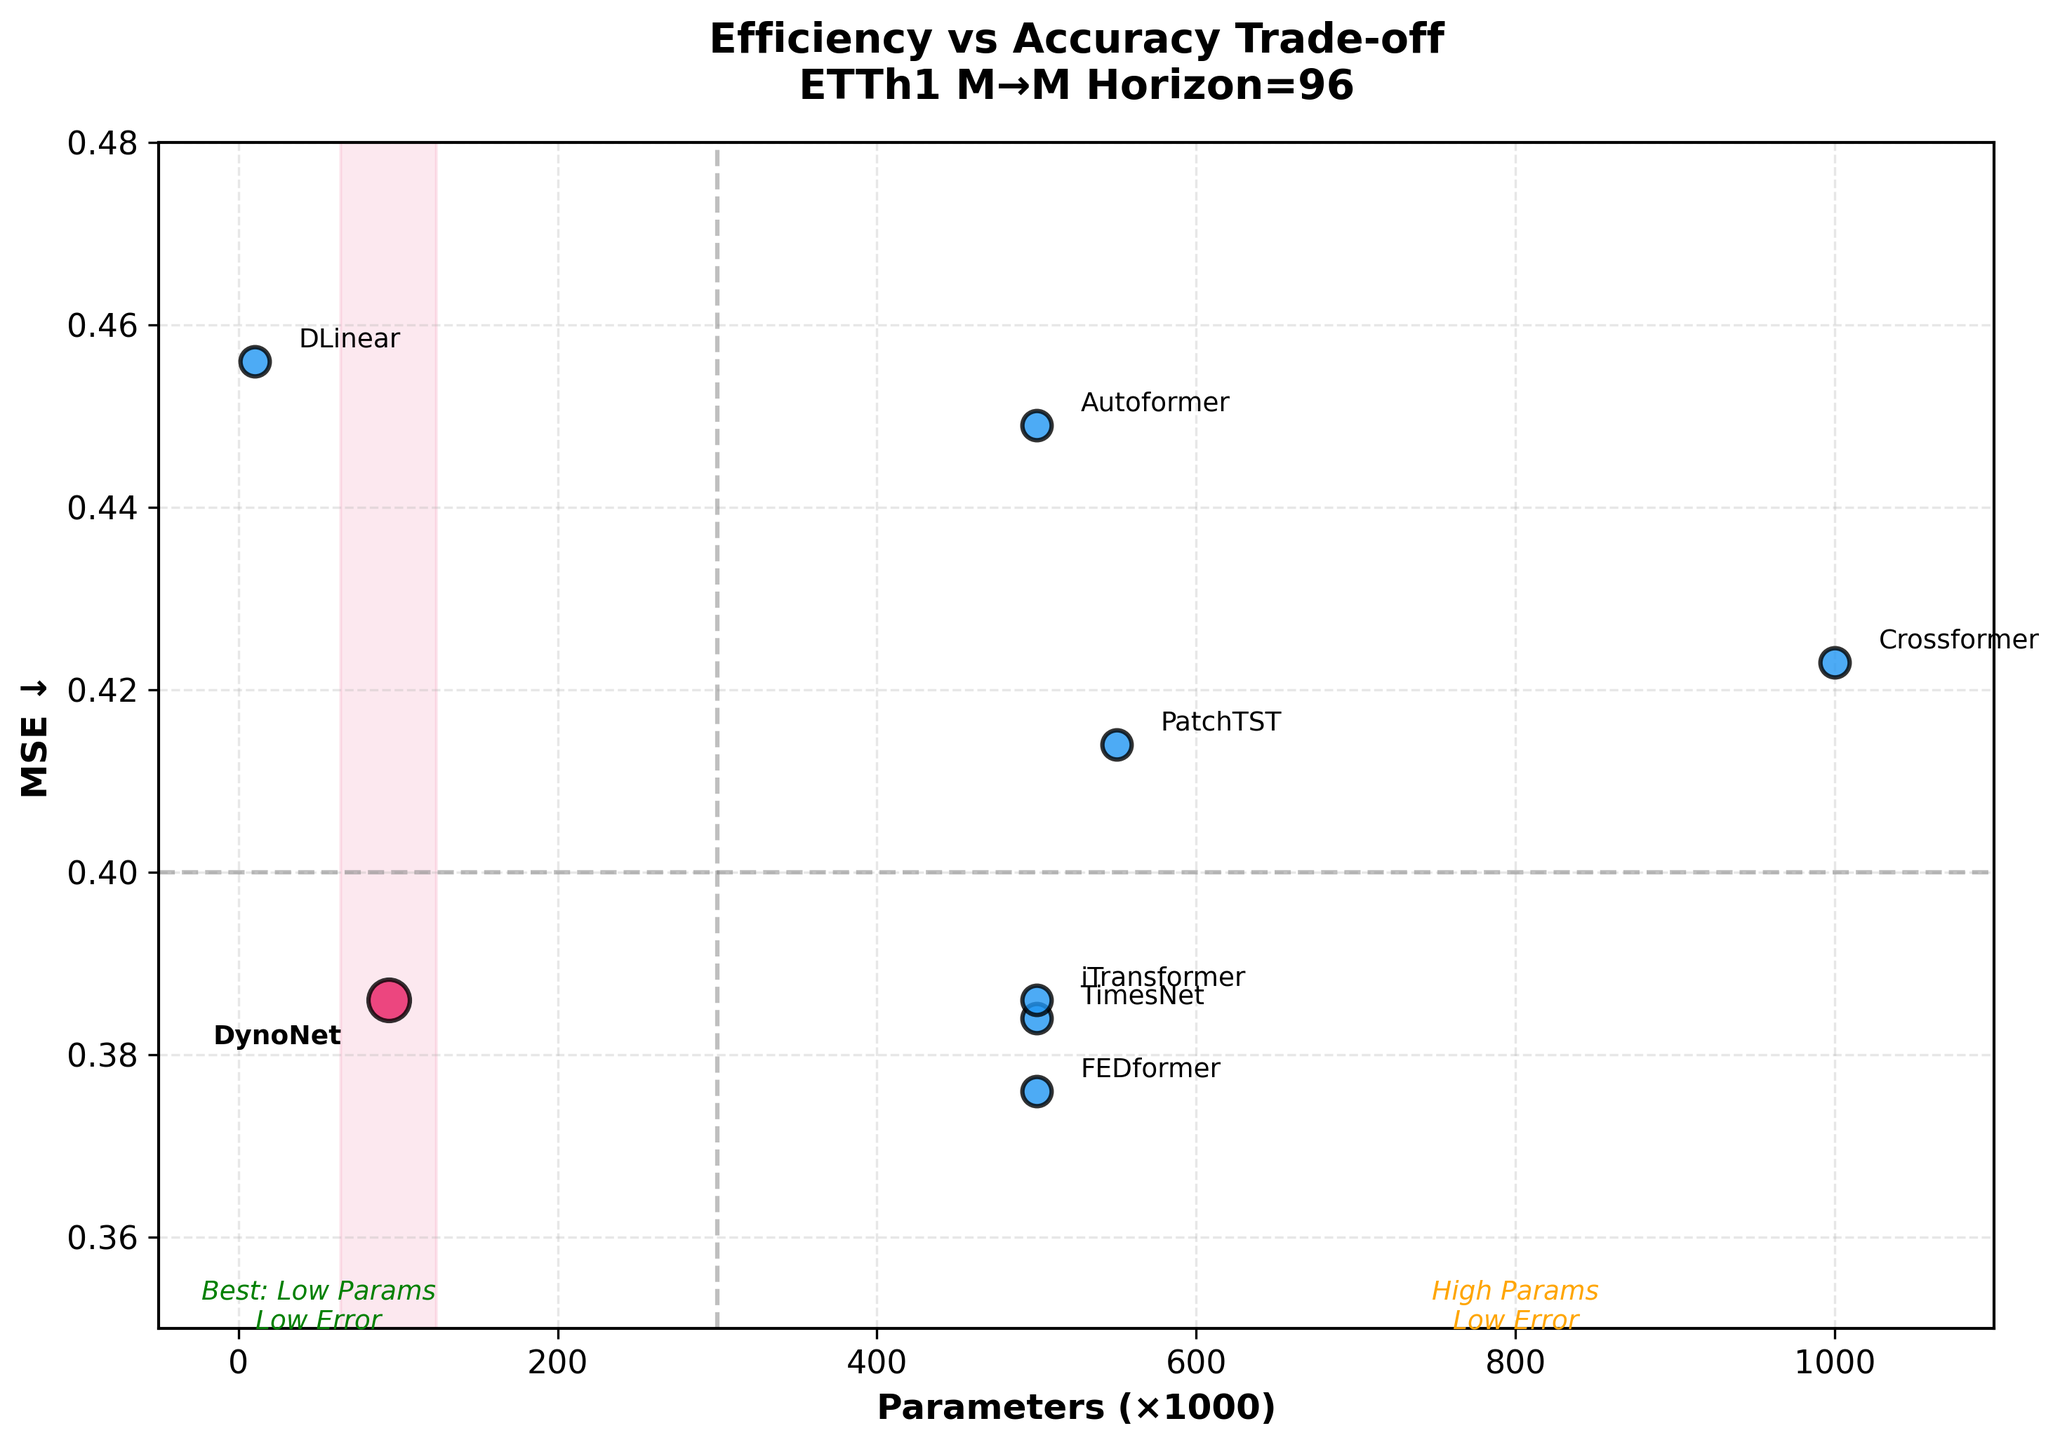
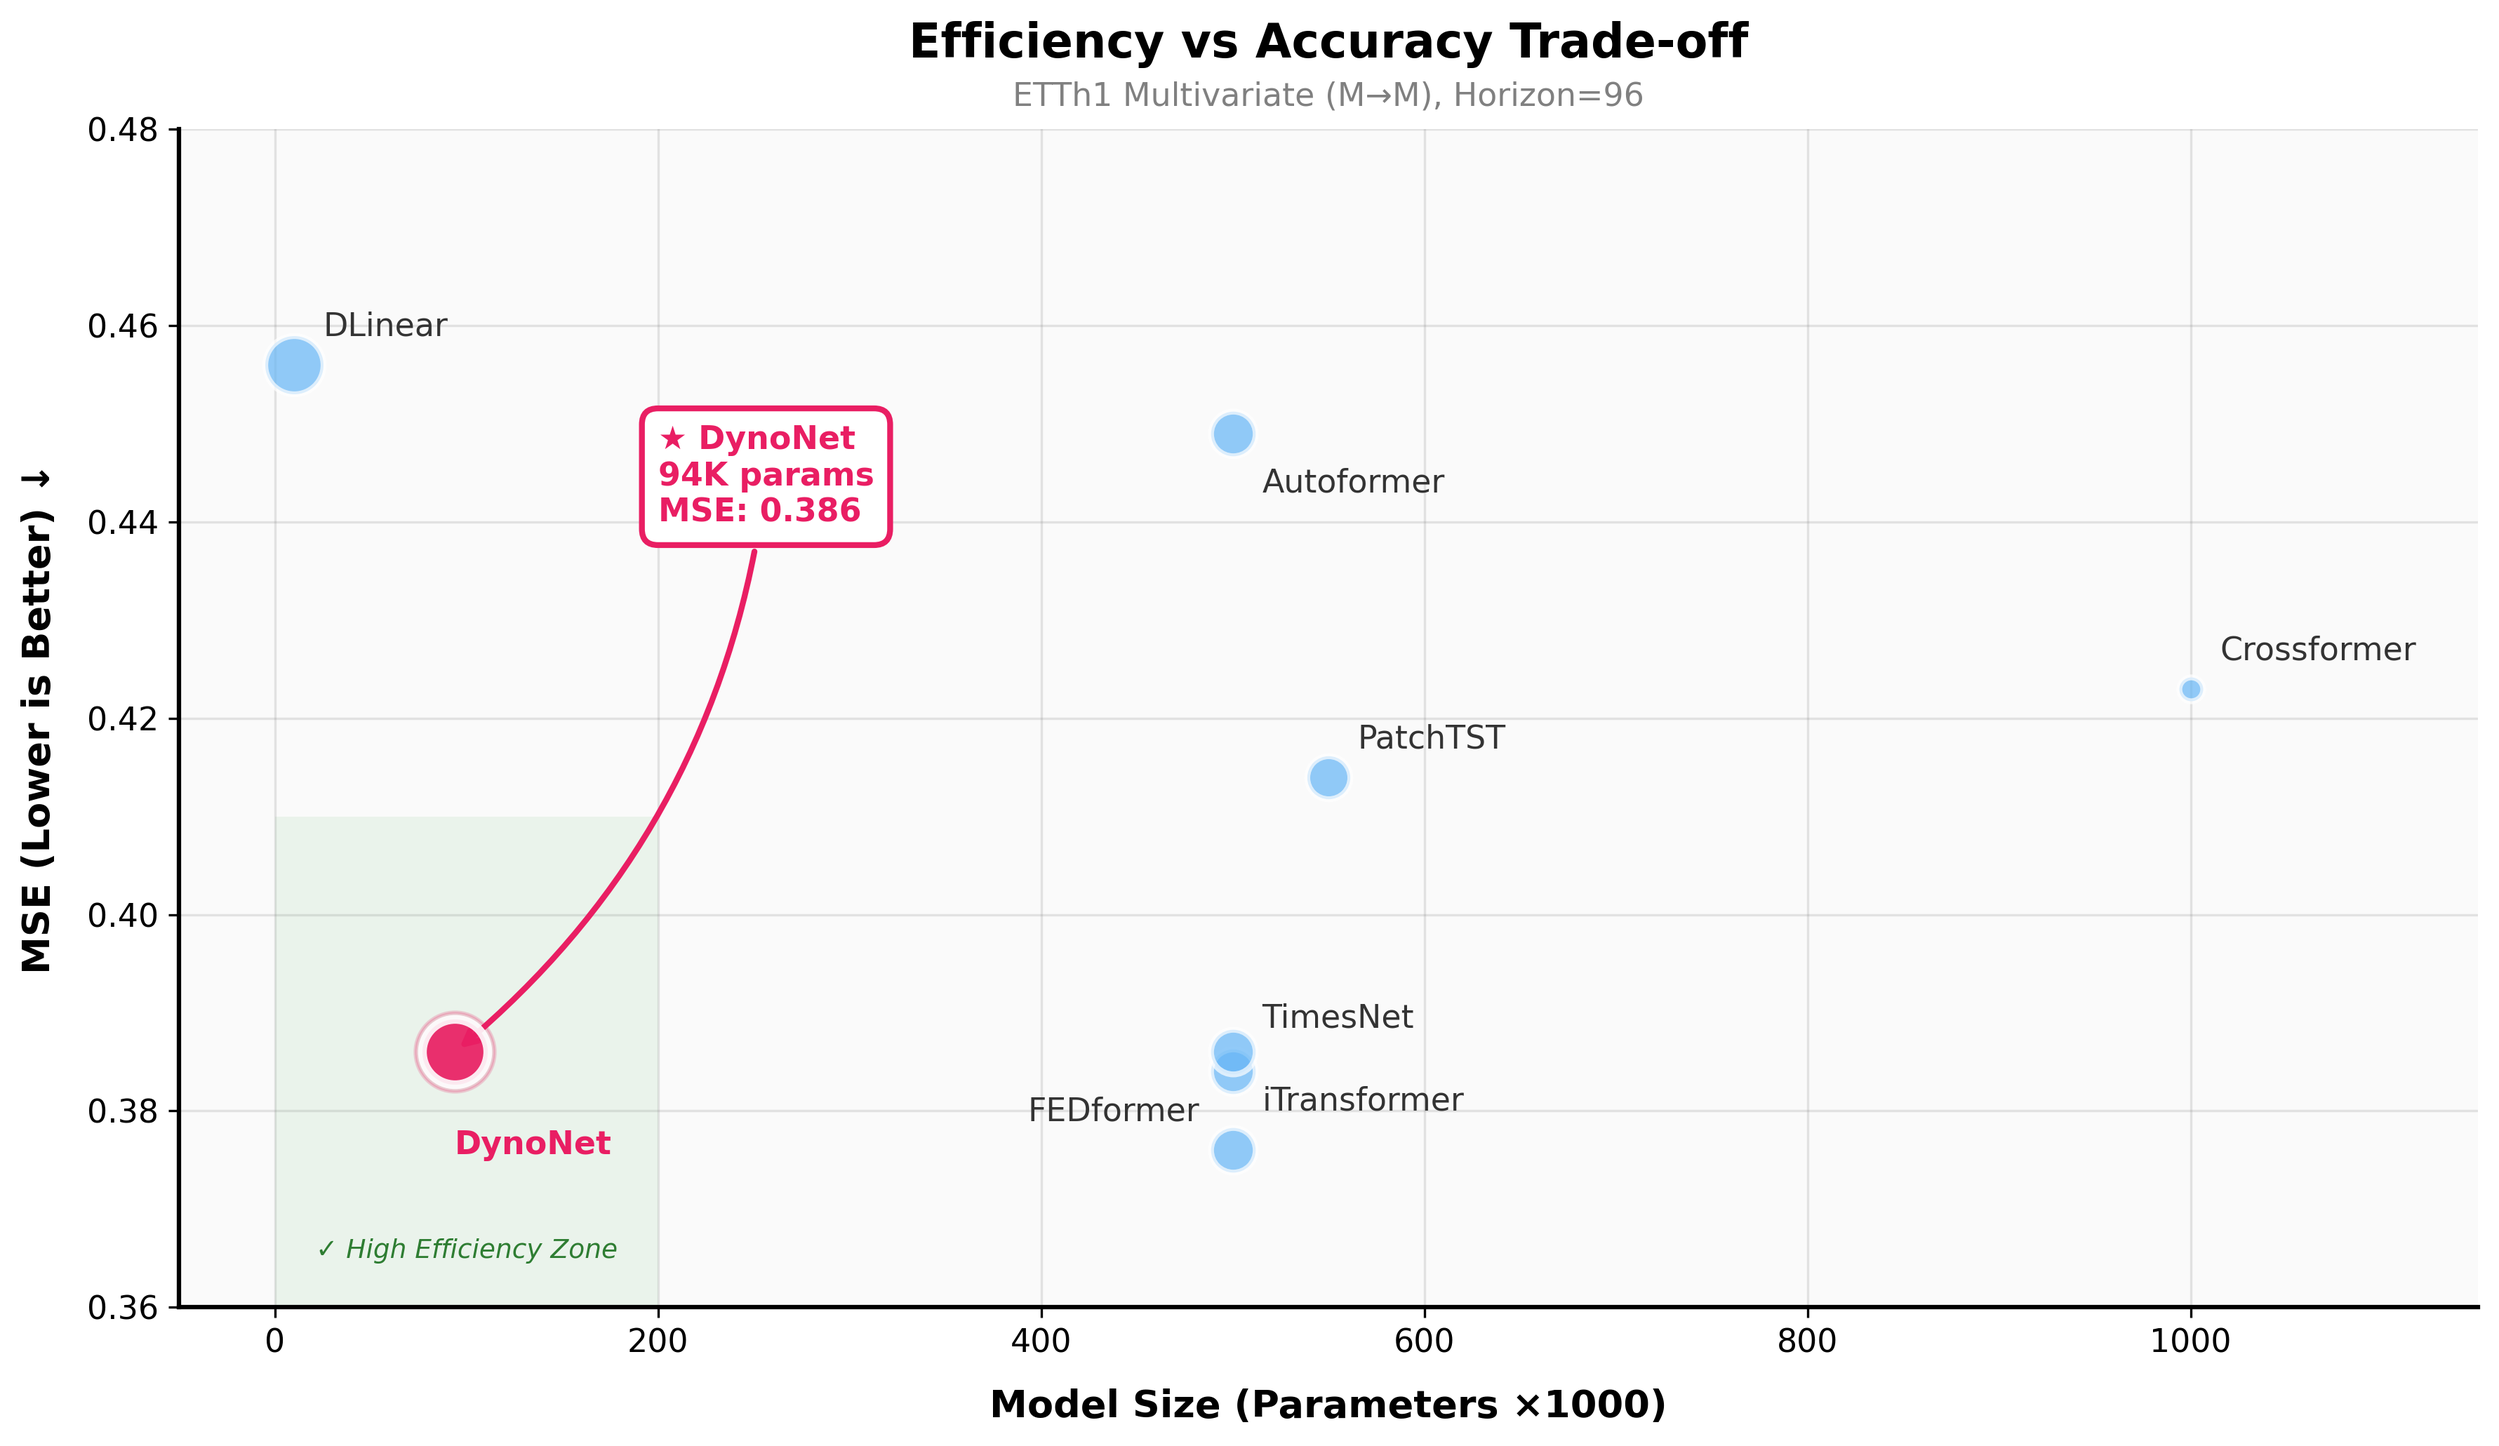
style: Redesign efficiency chart with cleaner bubble design

diff --git a/scripts/generate_benchmark_chart.py b/scripts/generate_benchmark_chart.py
@@ -104,7 +104,8 @@ def create_sota_benchmark_chart():
 
 def create_efficiency_scatter():
     """
-    Create a scatter plot showing MSE vs Parameters trade-off.
+    Create a clean bubble chart showing MSE vs Parameters trade-off.
+    Bubble size = inverse of params (smaller is better)
     """
     models = ['TimesNet', 'DynoNet', 'iTransformer', 'PatchTST', 
               'Crossformer', 'DLinear', 'Autoformer', 'FEDformer']
@@ -112,48 +113,82 @@ def create_efficiency_scatter():
     mse = [0.384, 0.386, 0.386, 0.414, 0.423, 0.456, 0.449, 0.376]
     params_k = [500, 94, 500, 550, 1000, 10, 500, 500]
     
-    fig, ax = plt.subplots(figsize=(10, 7), dpi=150)
+    fig, ax = plt.subplots(figsize=(12, 7), dpi=150)
+    fig.patch.set_facecolor('white')
+    ax.set_facecolor('#FAFAFA')
     
-    # Scatter points
-    colors = ['#2196F3'] * len(models)
-    colors[1] = '#E91E63'  # DynoNet in pink/red
+    # Color palette
+    colors = ['#64B5F6', '#E91E63', '#64B5F6', '#64B5F6', 
+              '#64B5F6', '#64B5F6', '#64B5F6', '#64B5F6']
     
-    sizes = [100] * len(models)
-    sizes[1] = 200  # DynoNet larger
+    # Bubble sizes (inverse relationship - smaller params = bigger bubble for visibility)
+    bubble_sizes = [max(50, 400 - p/3) for p in params_k]
+    bubble_sizes[1] = 500  # Make DynoNet biggest
+    
+    # Plot bubbles
+    for i, (model, x, y, size, color) in enumerate(zip(models, params_k, mse, bubble_sizes, colors)):
+        if model == 'DynoNet':
+            ax.scatter(x, y, s=size, c=color, edgecolors='white', 
+                      linewidths=3, zorder=10, alpha=0.9)
+            # Add glow effect
+            ax.scatter(x, y, s=size*1.5, c=color, alpha=0.2, zorder=5)
+        else:
+            ax.scatter(x, y, s=size, c=color, edgecolors='white', 
+                      linewidths=2, zorder=5, alpha=0.7)
+    
+    # Labels with clean positioning
+    label_offsets = {
+        'TimesNet': (10, 15),
+        'DynoNet': (0, -35),
+        'iTransformer': (10, -20),
+        'PatchTST': (10, 10),
+        'Crossformer': (10, 10),
+        'DLinear': (10, 10),
+        'Autoformer': (10, -20),
+        'FEDformer': (-70, 10),
+    }
     
     for i, (model, x, y) in enumerate(zip(models, params_k, mse)):
-        ax.scatter(x, y, s=sizes[i], c=colors[i], edgecolors='black', 
-                  linewidths=1.5, zorder=5, alpha=0.8)
+        offset = label_offsets.get(model, (10, 5))
+        weight = 'bold' if model == 'DynoNet' else 'normal'
+        color = '#E91E63' if model == 'DynoNet' else '#333333'
         
-        # Label offset
-        offset = (15, 5) if model != 'DynoNet' else (-60, -15)
         ax.annotate(model, (x, y), textcoords="offset points", 
-                   xytext=offset, fontsize=9,
-                   fontweight='bold' if model == 'DynoNet' else 'normal')
+                   xytext=offset, fontsize=11, fontweight=weight, color=color)
     
-    # Highlight DynoNet region
-    circle = plt.Circle((94, 0.386), 30, color='#E91E63', alpha=0.1)
-    ax.add_patch(circle)
+    # DynoNet callout box
+    ax.annotate('★ DynoNet\n94K params\nMSE: 0.386', 
+                xy=(94, 0.386), xytext=(200, 0.44),
+                fontsize=11, color='#E91E63', fontweight='bold',
+                bbox=dict(boxstyle='round,pad=0.5', facecolor='white', 
+                         edgecolor='#E91E63', linewidth=2),
+                arrowprops=dict(arrowstyle='->', color='#E91E63', lw=2,
+                               connectionstyle='arc3,rad=-0.2'))
     
-    ax.set_xlabel('Parameters (×1000)', fontsize=12, fontweight='bold')
-    ax.set_ylabel('MSE ↓', fontsize=12, fontweight='bold')
-    ax.set_title('Efficiency vs Accuracy Trade-off\nETTh1 M→M Horizon=96', 
-                fontsize=14, fontweight='bold', pad=15)
+    # Axes styling
+    ax.set_xlabel('Model Size (Parameters ×1000)', fontsize=13, fontweight='bold', labelpad=10)
+    ax.set_ylabel('MSE (Lower is Better) ↓', fontsize=13, fontweight='bold', labelpad=10)
+    ax.set_title('Efficiency vs Accuracy Trade-off\n', fontsize=16, fontweight='bold')
+    ax.text(0.5, 1.02, 'ETTh1 Multivariate (M→M), Horizon=96', 
+           transform=ax.transAxes, ha='center', fontsize=11, color='gray')
     
-    # Add quadrant lines
-    ax.axhline(y=0.40, color='gray', linestyle='--', alpha=0.5)
-    ax.axvline(x=300, color='gray', linestyle='--', alpha=0.5)
+    # Set limits with padding
+    ax.set_xlim(-50, 1150)
+    ax.set_ylim(0.36, 0.48)
     
-    # Annotations for quadrants
-    ax.text(50, 0.35, 'Best: Low Params\nLow Error', fontsize=9, 
-           color='green', ha='center', style='italic')
-    ax.text(800, 0.35, 'High Params\nLow Error', fontsize=9, 
-           color='orange', ha='center', style='italic')
+    # Clean grid
+    ax.grid(True, linestyle='-', alpha=0.2, color='gray')
+    ax.spines['top'].set_visible(False)
+    ax.spines['right'].set_visible(False)
+    ax.spines['left'].set_linewidth(1.5)
+    ax.spines['bottom'].set_linewidth(1.5)
     
-    ax.set_xlim(-50, 1100)
-    ax.set_ylim(0.35, 0.48)
-    
-    ax.grid(True, linestyle='--', alpha=0.3)
+    # Add efficiency zone
+    rect = plt.Rectangle((0, 0.36), 200, 0.05, 
+                         facecolor='#C8E6C9', alpha=0.3, zorder=1)
+    ax.add_patch(rect)
+    ax.text(100, 0.365, '✓ High Efficiency Zone', fontsize=9, 
+           ha='center', color='#2E7D32', style='italic')
     
     plt.tight_layout()
     plt.savefig('png/efficiency_vs_accuracy.png', dpi=300, bbox_inches='tight',
